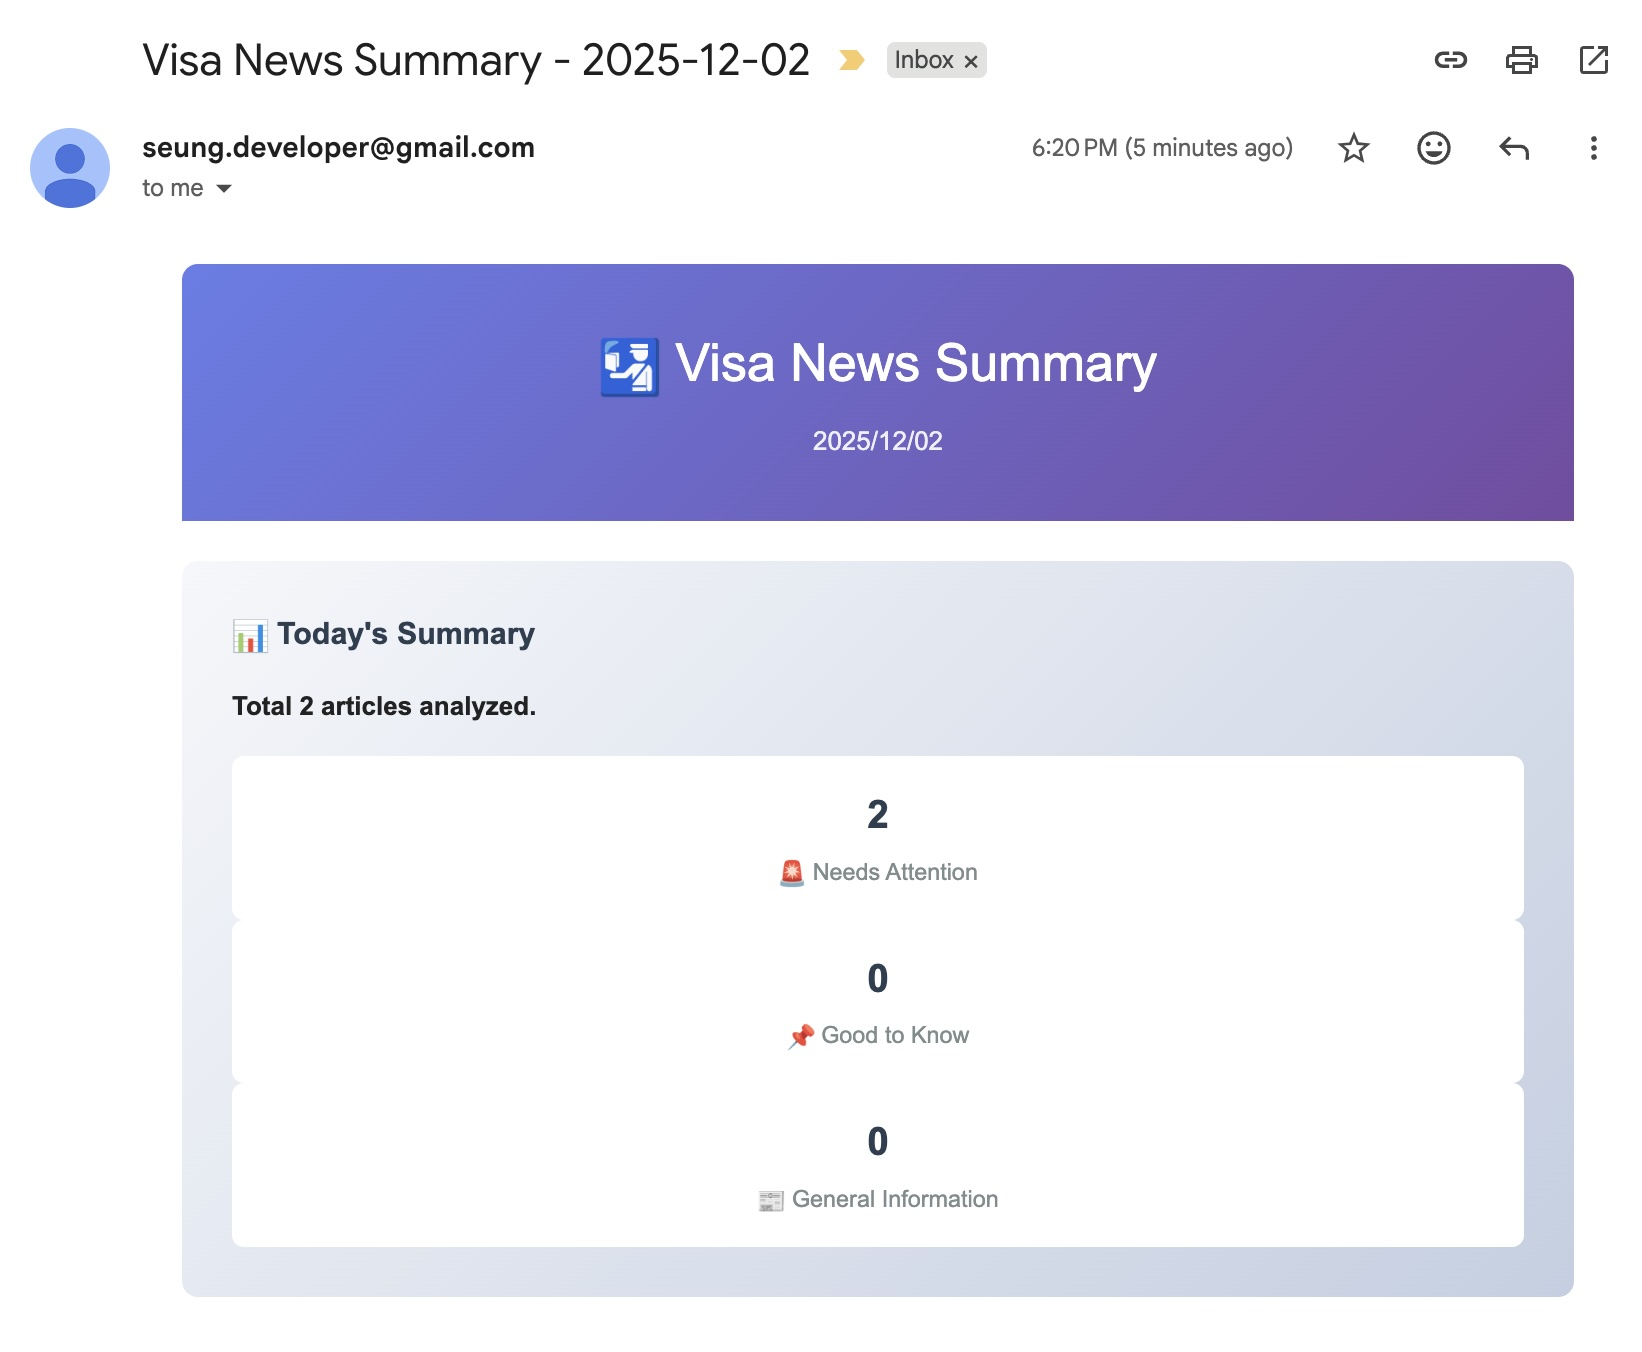
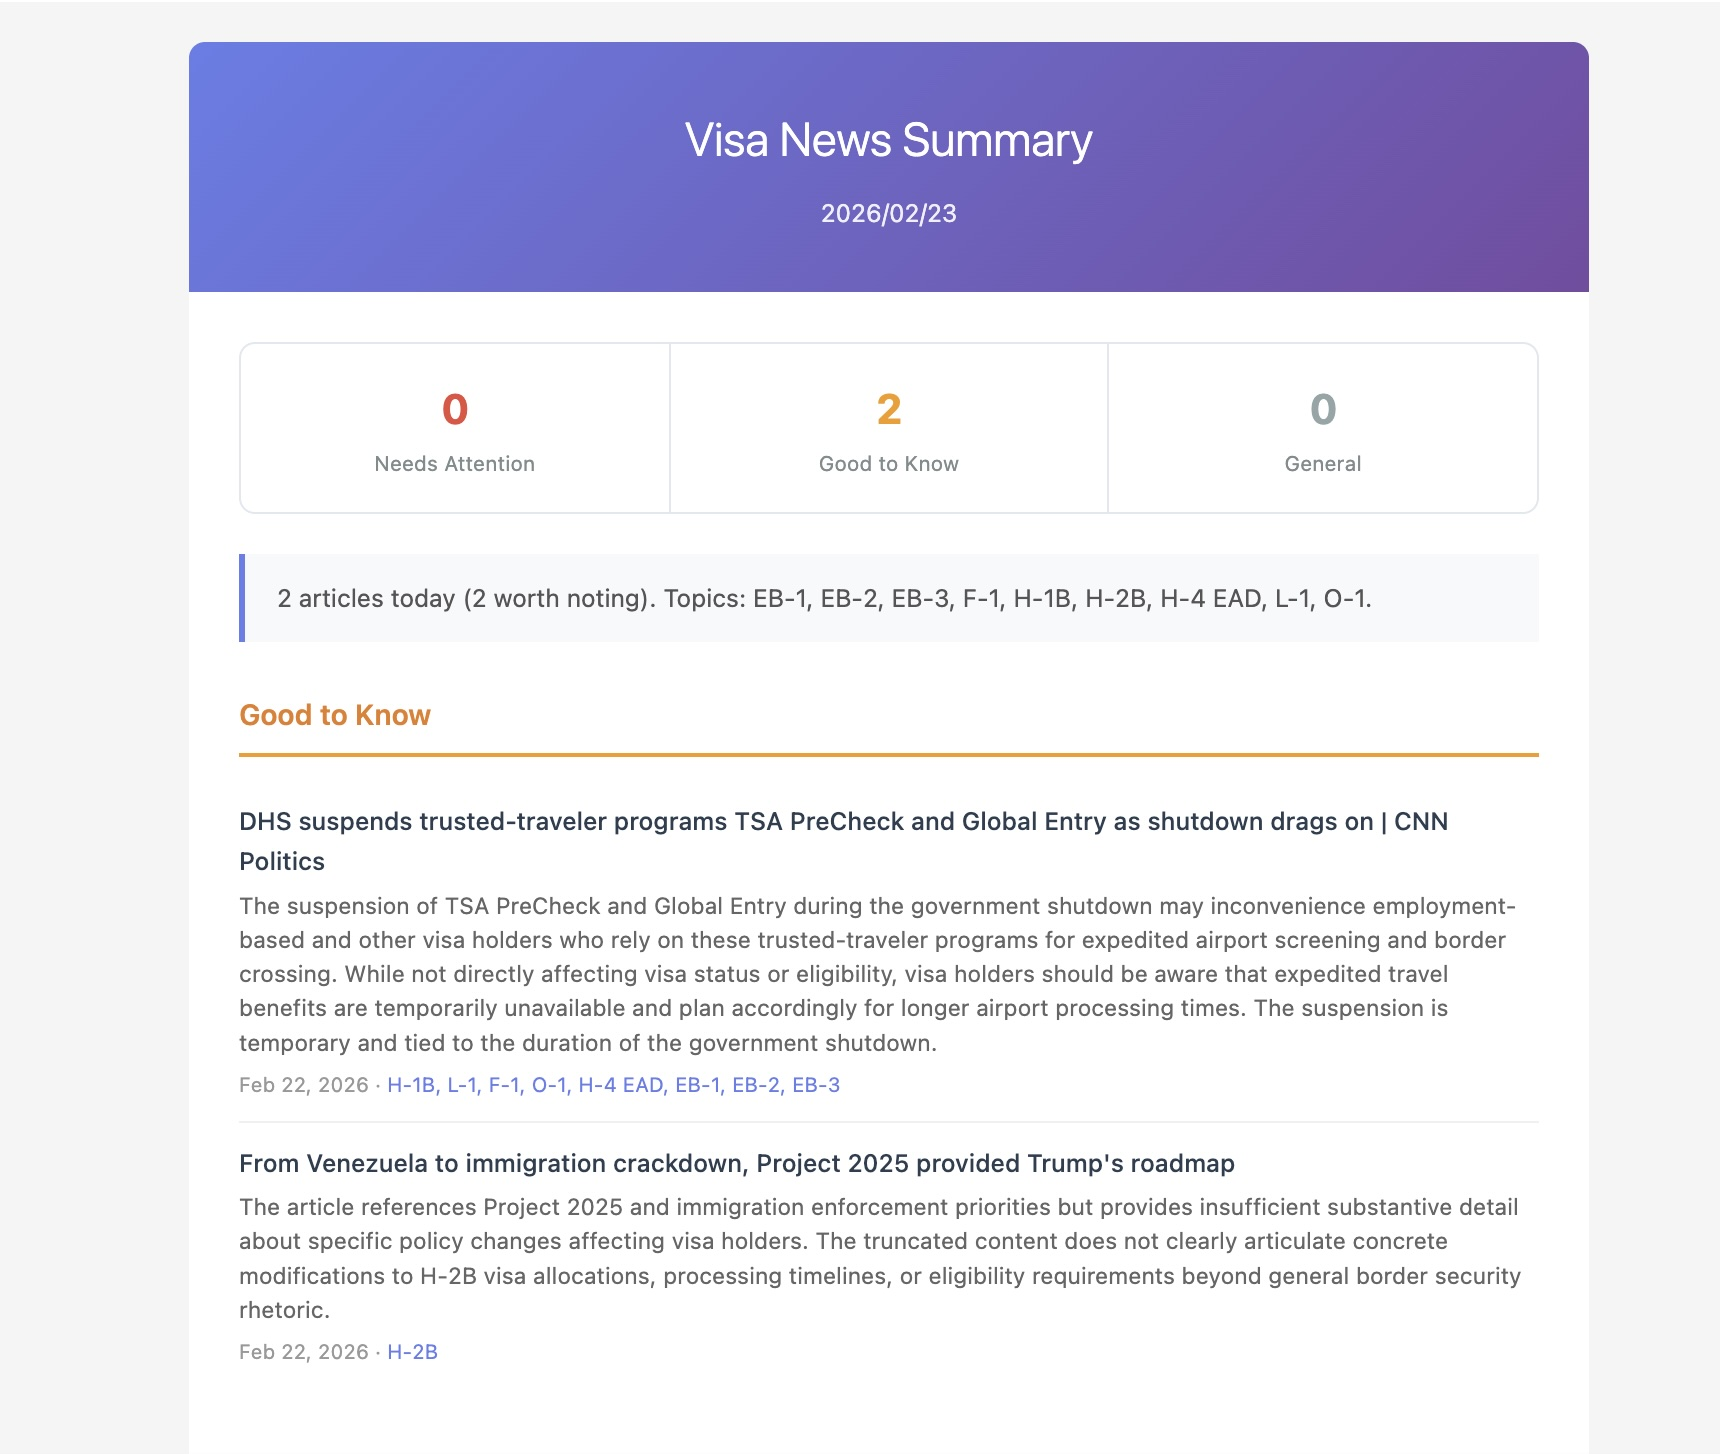
update visa tracker and stock trading system

diff --git a/_projects/5_project.md b/_projects/5_project.md
@@ -8,18 +8,28 @@ category: work
 github_url: https://github.com/seungjoohan/visa-tracker
 ---
 
-From 2025, a period of rapid and dramatic visa policy changes have begun. Staying informed about critical immigration updates became a daily necessity. Manually monitoring multiple news source was time-consuming and unreliable, risking missed policy announcements that can have immediate personal impact.
+From 2025, a period of rapid and dramatic visa policy changes have begun. Staying informed about critical immigration updates became a daily necessity. Manually monitoring multiple news sources was time-consuming and unreliable, risking missed policy announcements that can have immediate personal impact.
 
-So, I built an automated visa related news tracking system that collects, analyzes, and delivers daily email summaries of visa-related news.
+So, I built an automated visa news tracking and analysis system — and then kept going, turning it into a full RAG (Retrieval-Augmented Generation) platform.
+
+**v1** collected news from NewsAPI, classified articles by urgency using sentence-transformer semantic similarity, and delivered daily HTML email summaries via GitHub Actions cron.
+
+**v2** adds a RAG pipeline grounded in official policy documents:
+
+- **Knowledge base**: 8 CFR Title 8 (federal immigration regulations) ingested from the public [eCFR API](https://www.ecfr.gov/), chunked into ~426 policy segments and embedded with `BAAI/bge-base-en-v1.5`
+- **Vector store**: FAISS (IndexFlatIP with L2-normalized vectors for cosine similarity), stored locally and committed to the repo
+- **LLM analysis**: Each article is analyzed by Claude Haiku with retrieved policy chunks as context, producing structured output — importance level, affected visa types, action required, deadline, and specific CFR citations
+- **Fallback chain**: LLM+RAG → LLM only → semantic+keyword → keyword only, so the pipeline never breaks even without an API key
+- **Evaluation framework**: Labeled article dataset, precision/recall/F1 metrics, and a comparison CLI to benchmark keyword vs. semantic vs. LLM vs. LLM+RAG classifiers side-by-side
+- **Knowledge base updates**: Weekly GitHub Actions workflow checks the eCFR API for regulatory changes and re-ingests only when Title 8 has actually been updated
 
 Skills involved:
 
-- Data: [NewsAPI](https://newsapi.org/)
-- ML: Sentence transformers, semantic similarity, text classification
-- DevOps:
-  - Backend: FastAPI
-  - CI/CD: Github Actions
-  - Email Systems: SMTP
+- **RAG**: FAISS vector store, sentence-transformers, chunk retrieval, prompt construction
+- **LLM**: Anthropic Claude API, structured JSON output, cost and latency tracking
+- **Data**: [NewsAPI](https://newsapi.org/), [eCFR API](https://www.ecfr.gov/), XML parsing
+- **ML**: Sentence transformers, semantic similarity, classification metrics (precision/recall/F1)
+- **DevOps**: FastAPI, GitHub Actions, SMTP email
 
 <div class="row">
     <div class="col-sm mt-3 mt-md-0">

diff --git a/_projects/3_project.md b/_projects/3_project.md
@@ -1,0 +1,41 @@
+---
+layout: page
+title: Agentic Trading System
+description: LLM-driven stock trading agent with live market data, sentiment analysis, and risk management
+img: assets/img/flow-chart.jpg
+importance: 2
+category: work
+github_url: https://github.com/seungjoohan/stock-prediction-system
+---
+
+I originally built this as a personal ML learning exercise: a simple Streamlit app that pulled stock data via yfinance, trained ARIMA and Prophet models on TSLA, AAPL, and GOOG, and served up predictions. The focus was on understanding how to take a model from notebook to production, not on whether the predictions were actually good (they weren't).
+
+But, as LLM based agentic system dominated my feeds on every SNS, I couldn't help to build something of my own.
+
+<div class="row">
+    <div class="col-sm mt-3 mt-md-0">
+        {% include figure.html path="assets/img/tradingdashboard.jpg" title="Trading Dashboard" class="img-fluid rounded z-depth-1" %}
+    </div>
+</div>
+
+The agent runs continuously during market hours and operates in two loops. Every 5 minutes it ingests news from Finnhub and RSS feeds, runs LLM sentiment analysis, and indexes everything into a two-layer RAG store (SQLite for structured retrieval, ChromaDB for semantic similarity). Every 15 minutes it gathers live prices via WebSocket, current portfolio state, fundamentals, FRED macro data, and the last 7 days of sentiment history. Then it builds a prompt, and asks the LLM what to do. Any trades that come back get validated by a risk manager before touching Alpaca.
+
+I'm currently running it in paper trading mode to see whether it actually makes money before letting it invest with my money. Next up is integrating ML-based stock prediction with current agentic trading system!
+
+Skills involved:
+
+- **LLM orchestration**: Groq (LLaMA/Mixtral) primary, Google Gemini fallback, rate-limited batch processing
+- **Retrieval-Augmented Generation**: ChromaDB vector store + SQLite structured retrieval, `sentence-transformers/all-MiniLM-L6-v2` embeddings
+- **Real-time data**: Finnhub WebSocket with reconnect, ping/pong keepalive, staleness detection
+- **Risk management**: confidence threshold, position size caps, daily loss circuit breaker, VIX circuit breaker, earnings blackout, stop-loss
+- **APIs**: Alpaca (execution), Finnhub (prices/news/fundamentals), FRED (macro), Groq, Gemini
+- **Infrastructure**: SQLite (WAL mode), Streamlit dashboard
+
+<div class="row">
+    <div class="col-sm mt-3 mt-md-0">
+        {% include figure.html path="assets/img/flow-chart.jpg" title="System architecture" class="img-fluid rounded z-depth-1" %}
+    </div>
+</div>
+<div class="caption">
+    Every 15-minute decision cycle gathers live prices, portfolio state, macro data, and 7 days of RAG-retrieved sentiment history before calling the LLM.
+</div>

diff --git a/_projects/6_project.md b/_projects/6_project.md
@@ -11,10 +11,11 @@ app_url: https://testflight.apple.com/join/h3ssEK8c
 Living in New York City, the toughest aspect of New Yorkers for me to get accustomed to was making an appointment with a friend to grab a dinner or a beer together. I prefer to text a friend "let's grab a dinner tonight" than to text "let's grab a dinner this friday at 6pm".
 
 I know I'm spontaneous and I've built an app, ProPINGquity, to satisfy my needs. Through the app, you can:
-* Ping at your location to find out who's nearby
-* Connect and chat
-* Find places to go
-* Get recommendation on where to meet
+
+- Ping at your location to find out who's nearby
+- Connect and chat
+- Find places to go
+- Get recommendation on where to meet
 
 Join me for beta testing and connect with friends!
 
@@ -25,17 +26,19 @@ Join me for beta testing and connect with friends!
 </div>
 
 Technical Highlights:
-* Real-time location sharing: Friends can see each other's live location on an interactive map with customizable visibility settings
-* WebSocket-based chat: Instant messaging with read receipts, typing indicators, and media sharing
-* Google Places integration: Search places, browse by category, view ratings, photos, and contact info
-* Push notifications: Stay connected with real-time alerts for ping, messages, and friend requests
-* Privacy-first design: Contact information is encrypted at rest and never shared with third parties
+
+- Real-time location sharing: Friends can see each other's live location on an interactive map with customizable visibility settings
+- WebSocket-based chat: Instant messaging with read receipts, typing indicators, and media sharing
+- Google Places integration: Search places, browse by category, view ratings, photos, and contact info
+- Push notifications: Stay connected with real-time alerts for ping, messages, and friend requests
+- Privacy-first design: Contact information is encrypted at rest and never shared with third parties
 
 Tech Stack:
-* Frontend: React Native (Expo), TypeScript
-* Backend: FastAPI (Python)
-* Database: Firebase Firestore
-* Auth: Firebase Authentication
-* Storage: Google Cloud Storage
-* Maps: Google Maps Platform (Maps SDK, Places API, Directions API)
-* Real-time: WebSockets, Firebase Cloud Messaging    
+
+- Frontend: React Native (Expo), TypeScript
+- Backend: FastAPI (Python)
+- Database: Firebase Firestore
+- Auth: Firebase Authentication
+- Storage: Google Cloud Storage
+- Maps: Google Maps Platform (Maps SDK, Places API, Directions API)
+- Real-time: WebSockets, Firebase Cloud Messaging

diff --git a/_projects/1_project.md b/_projects/1_project.md
@@ -12,11 +12,12 @@ demo_url: https://pose-estimation-app-974323386375.us-central1.run.app/
 I am hereby presenting what I was able to achieve with 3D pose estimation at ViFive. You can test with your own image/camera through the live demo - though the app might take some time to load as I deployed using free resources!
 
 Skills involved:
- - ML: Tensorflow, Pose Estimation, Vision
- - Web: Flask
- - Version Control: Git
- - Containerization: Docker
- - Deployment: Google Cloud Platform
+
+- ML: Tensorflow, Pose Estimation, Vision
+- Web: Flask
+- Version Control: Git
+- Containerization: Docker
+- Deployment: Google Cloud Platform
 
 Be mindful to use clear image/video to test the model. As I removed all pre & post processing, the model might struggle to locate you. I attached some test videos from myself.
 
